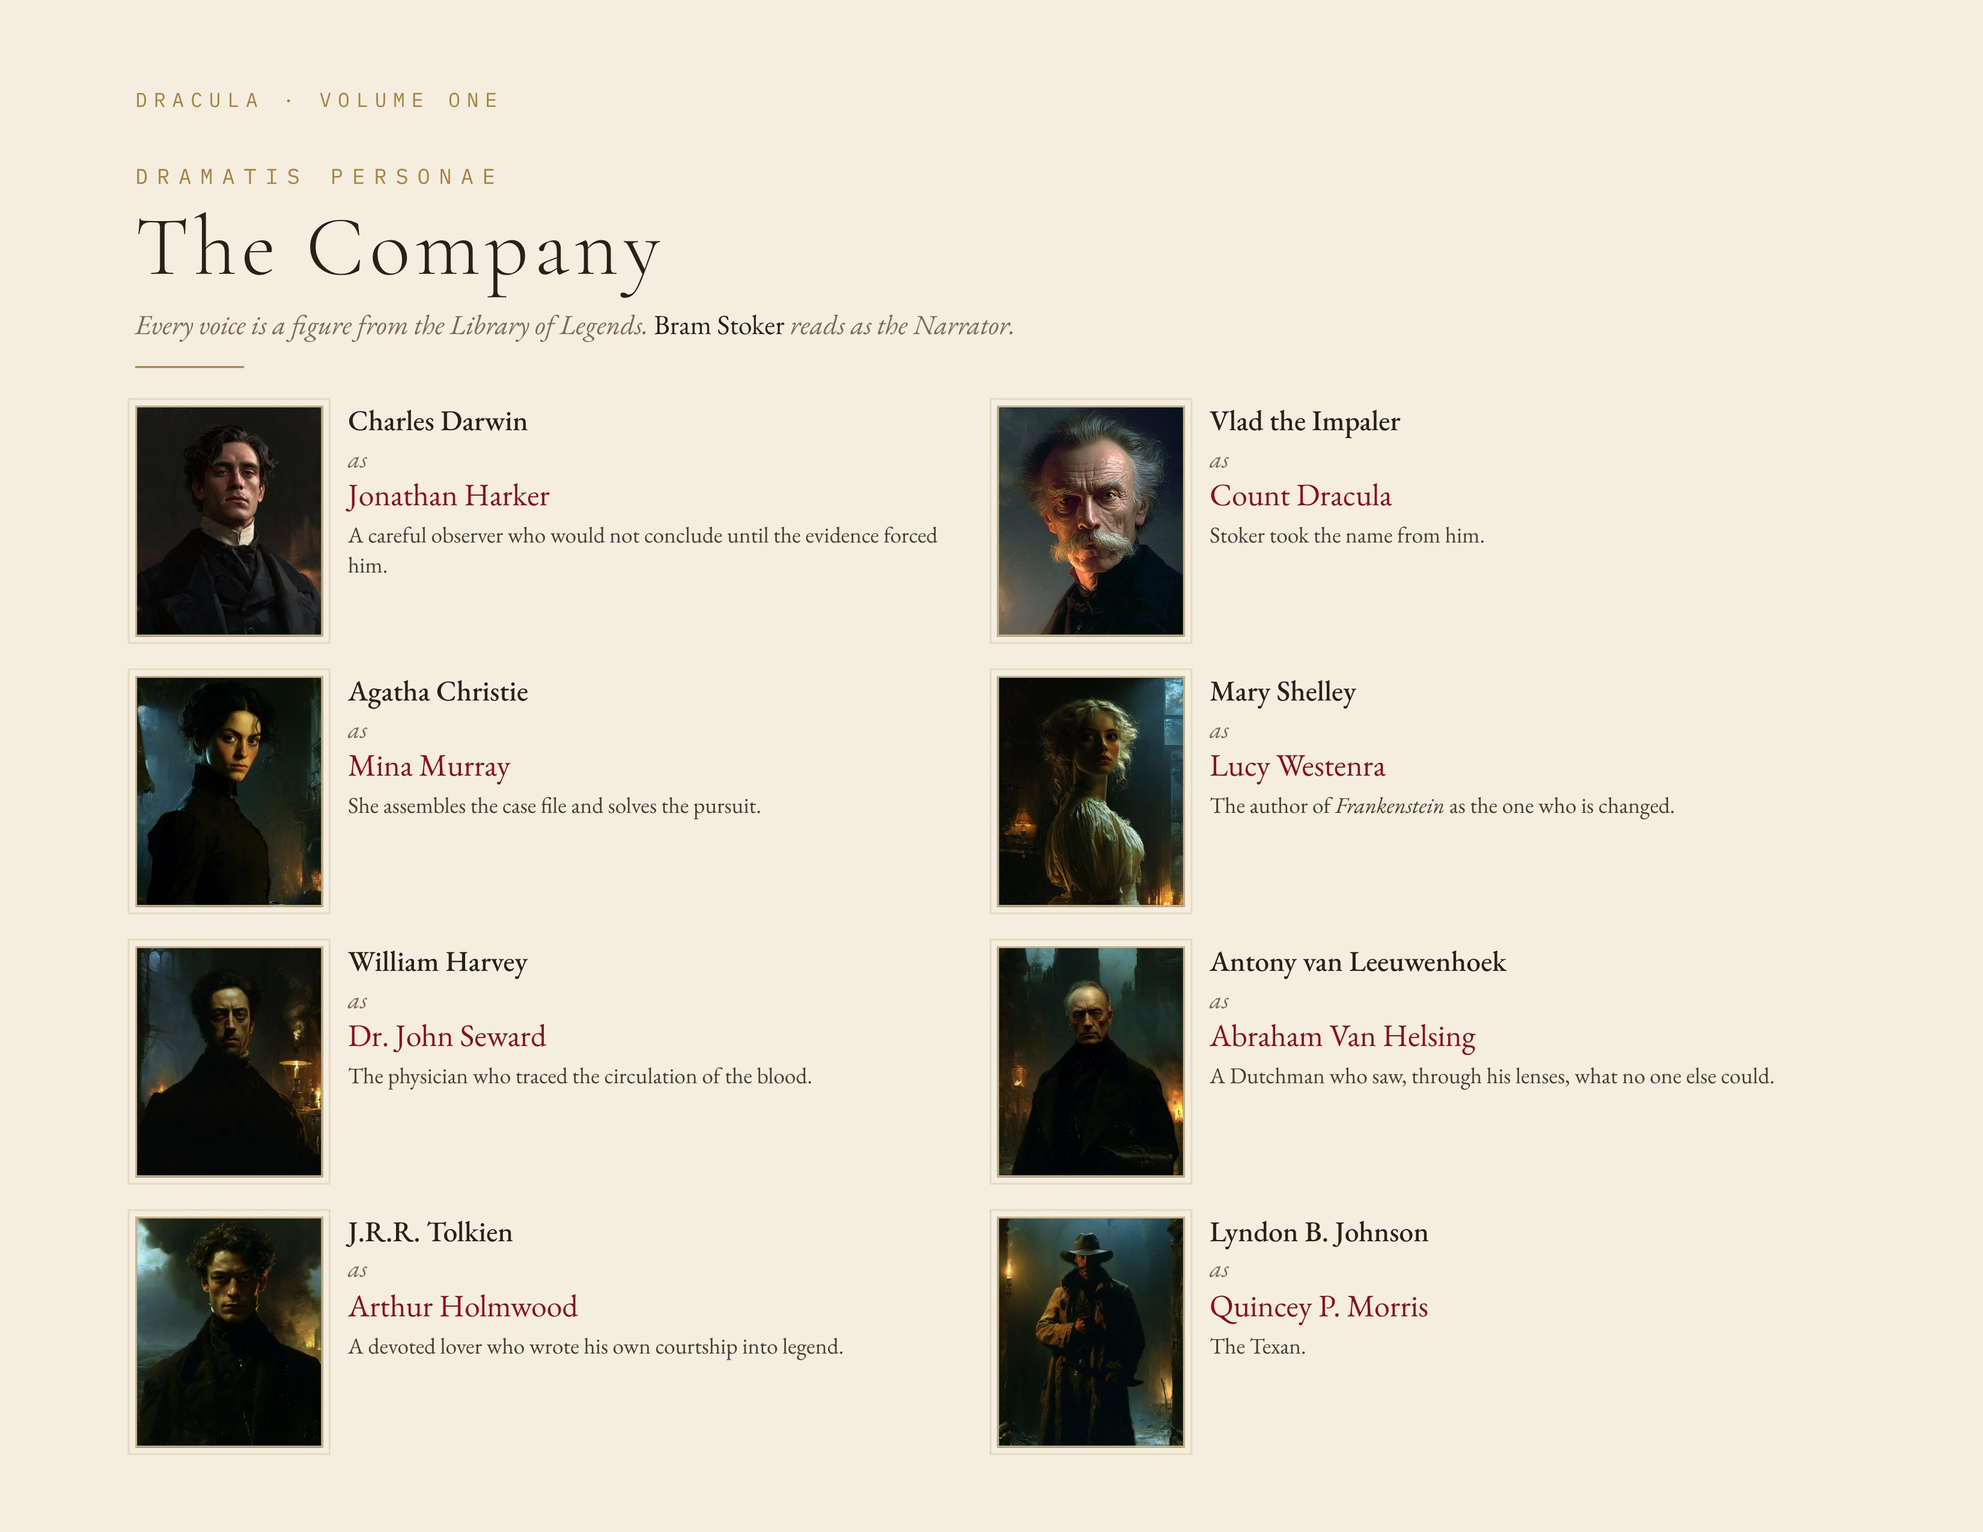
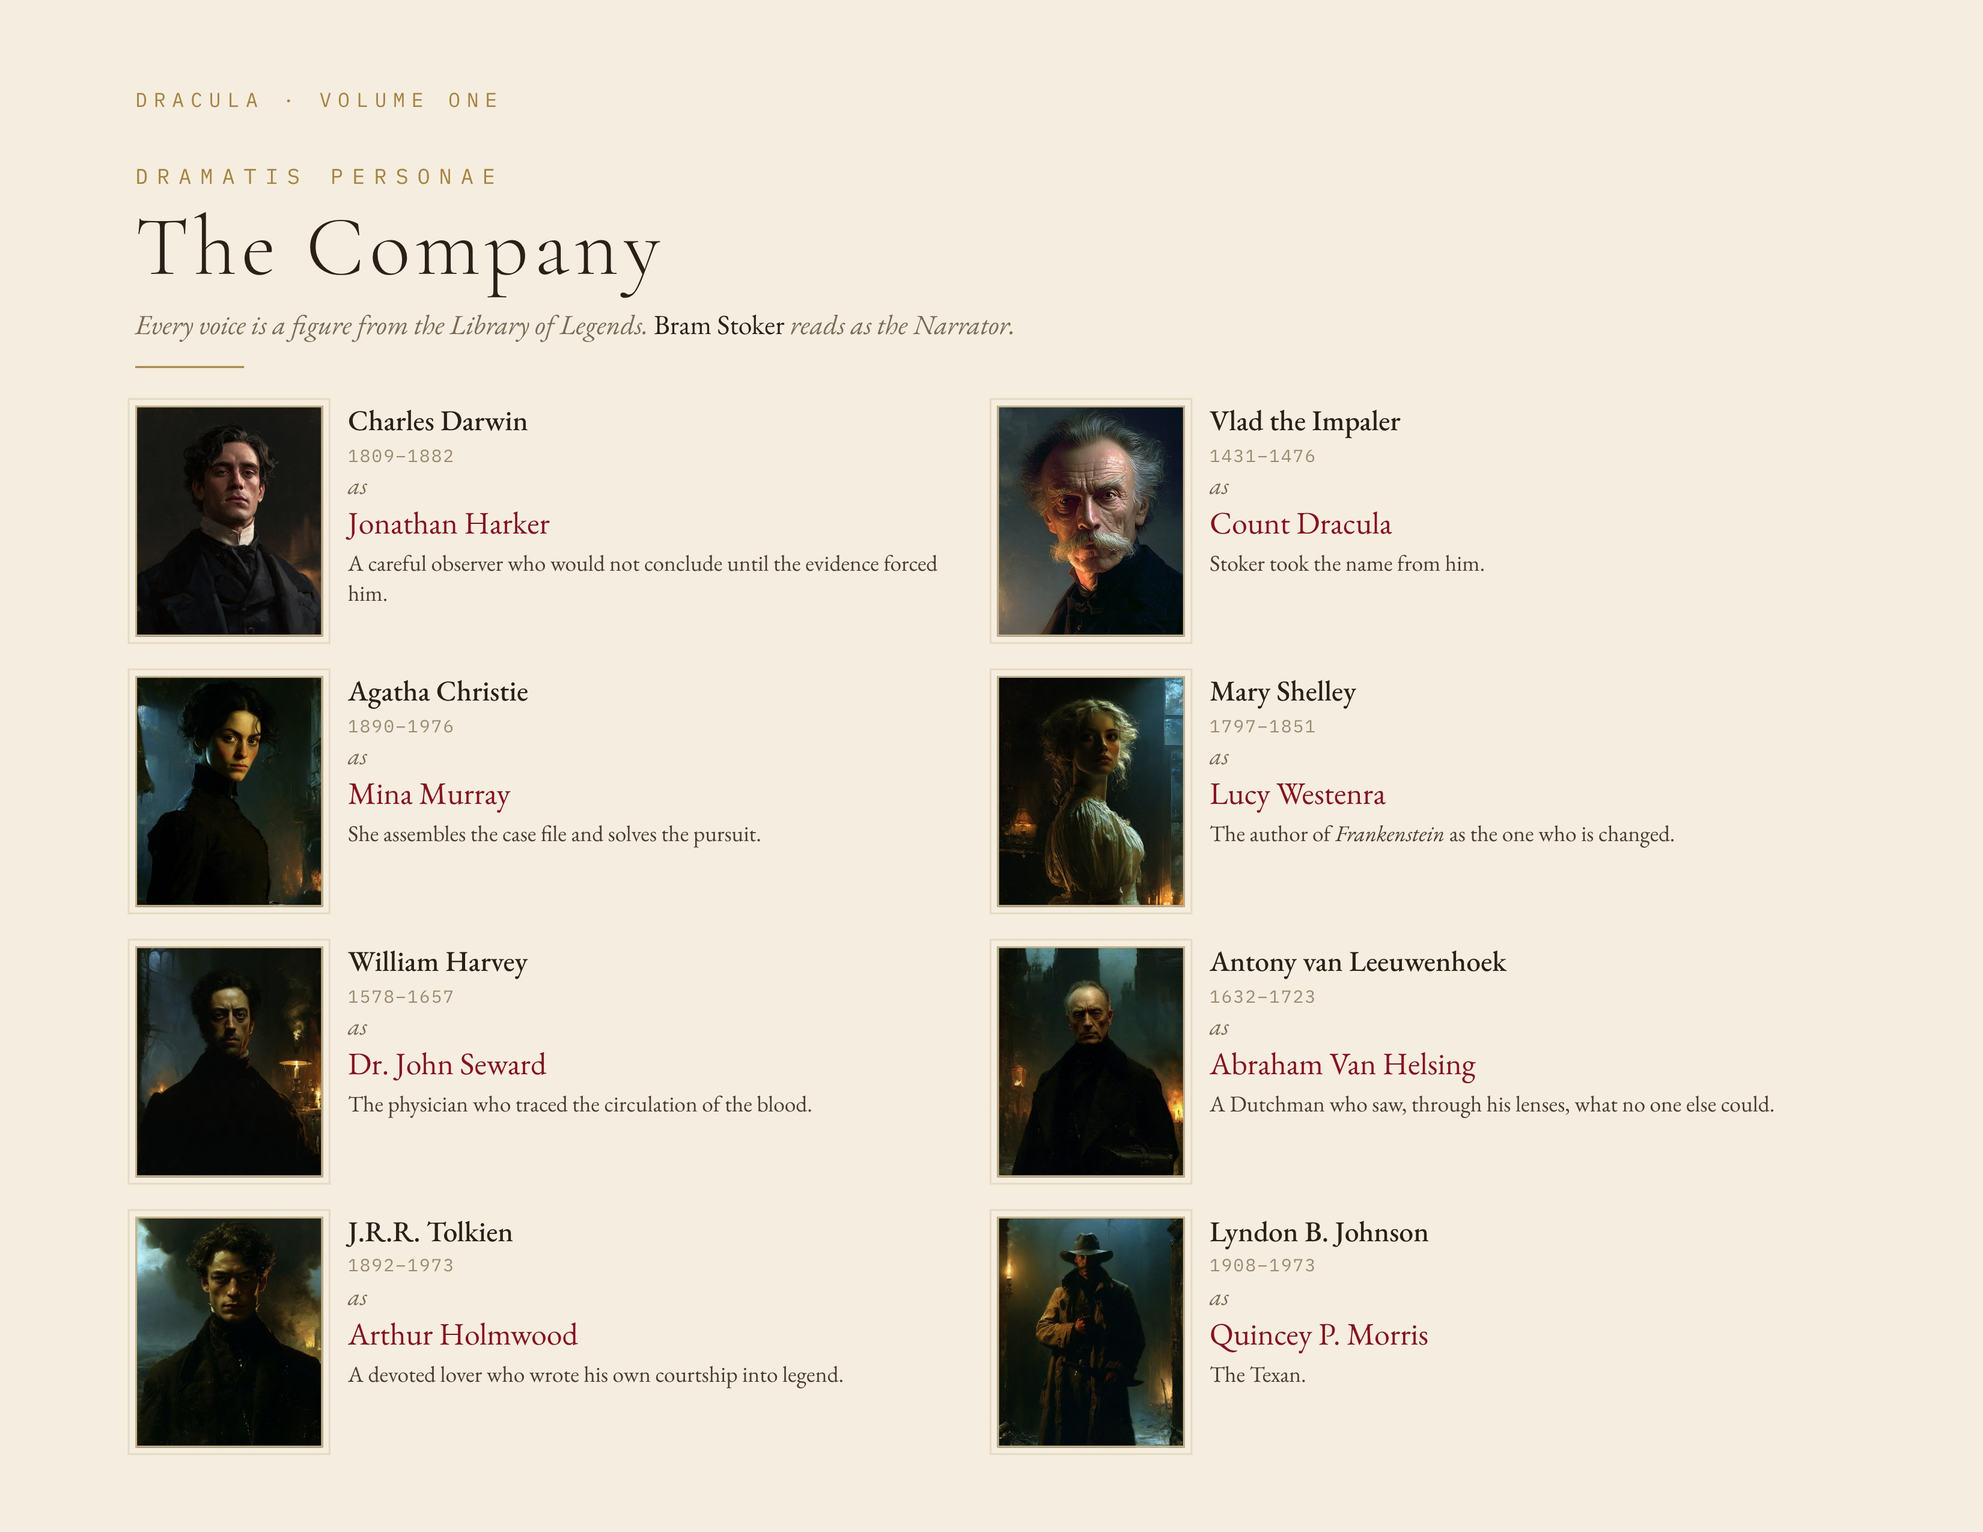
Volume One cast spread: life dates, Swales seated portrait, 'Also appearing', three women on one line; Company page matches
Claude-Session: https://claude.ai/code/session_013VwDP7mPLrP4eYudhxc4u4

diff --git a/dracula/books/volume-1/print/cast.html b/dracula/books/volume-1/print/cast.html
@@ -46,14 +46,15 @@ html,body{margin:0;background:#555}
 .co{position:absolute;display:grid;gap:.2in .26in;grid-template-rows:repeat(4,1.3in);top:2.25in}
 .c{display:flex;gap:.14in;align-items:flex-start}
 .ph{flex:none;width:1.04in;height:1.28in;background:#1c1a1a center/cover no-repeat;border:1px solid #c8b48a;box-shadow:0 0 0 3px var(--ivory),0 0 0 4px #c8b48a55}
-.nm{font:600 11.5pt/1.15 G}.as{font:italic 10pt G;color:#7a6a55;margin:.02in 0}.ro{font:12.5pt/1.15 G;color:var(--red)}
+.nm{font:600 11.5pt/1.15 G}.dt{font:7pt M;letter-spacing:.08em;color:#9a8a70;margin-top:.02in}
+.as{font:italic 10pt G;color:#7a6a55;margin:.02in 0}.ro{font:12.5pt/1.15 G;color:var(--red)}
 .wy{font:9pt/1.3 G;color:#4a3d30;margin-top:.05in}
 </style></head><body style="margin:0;background:#555"><div class="pg L"><div class="rh">Dracula · Volume One</div>
 <div style="position:absolute;left:.75in;right:.95in;top:.9in;text-align:left"><div class="k">Dramatis personae</div><div style="font:300 34pt/1.1 C;letter-spacing:.06em;margin:.06in 0">The Company</div>
 <div style="font:italic 11pt G;color:#7a6a55">Every voice is a figure from the Library of Legends. <span style="font-style:normal;color:var(--ink)">Bram Stoker</span> reads as the Narrator.</div><div class="rule" style="margin:.14in 0 0"></div></div>
-<div class="co" style="left:.75in;right:.95in;grid-template-columns:1fr 1fr"><div class="c"><div class="ph" style="background-image:url(file:///home/claude/ar/dracula/art/ref/bk3-jonathan.jpg);background-position:center 20%"></div><div><div class="nm">Charles Darwin</div><div class="as">as</div><div class="ro">Jonathan Harker</div><div class="wy">A careful observer who would not conclude until the evidence forced him.</div></div></div><div class="c"><div class="ph" style="background-image:url(file:///home/claude/ar/dracula/art/ref/bk1-count.jpg);background-position:center 30%"></div><div><div class="nm">Vlad the Impaler</div><div class="as">as</div><div class="ro">Count Dracula</div><div class="wy">Stoker took the name from him.</div></div></div><div class="c"><div class="ph" style="background-image:url(file:///home/claude/ar/dracula/art/ref/bk2-mina.jpg);background-position:center 25%"></div><div><div class="nm">Agatha Christie</div><div class="as">as</div><div class="ro">Mina Murray</div><div class="wy">She assembles the case file and solves the pursuit.</div></div></div><div class="c"><div class="ph" style="background-image:url(file:///home/claude/ar/dracula/art/ref/bk2-lucy.jpg);background-position:center 25%"></div><div><div class="nm">Mary Shelley</div><div class="as">as</div><div class="ro">Lucy Westenra</div><div class="wy">The author of <i>Frankenstein</i> as the one who is changed.</div></div></div><div class="c"><div class="ph" style="background-image:url(file:///home/claude/ar/dracula/art/ref/bk2-seward.jpg);background-position:center 30%"></div><div><div class="nm">William Harvey</div><div class="as">as</div><div class="ro">Dr. John Seward</div><div class="wy">The physician who traced the circulation of the blood.</div></div></div><div class="c"><div class="ph" style="background-image:url(file:///home/claude/ar/dracula/art/ref/bk2-van-helsing.jpg);background-position:center 30%"></div><div><div class="nm">Antony van Leeuwenhoek</div><div class="as">as</div><div class="ro">Abraham Van Helsing</div><div class="wy">A Dutchman who saw, through his lenses, what no one else could.</div></div></div><div class="c"><div class="ph" style="background-image:url(file:///home/claude/ar/dracula/art/ref/bk2-arthur.jpg);background-position:center 30%"></div><div><div class="nm">J.R.R. Tolkien</div><div class="as">as</div><div class="ro">Arthur Holmwood</div><div class="wy">A devoted lover who wrote his own courtship into legend.</div></div></div><div class="c"><div class="ph" style="background-image:url(file:///home/claude/ar/dracula/art/ref/bk2-quincey.jpg);background-position:center 30%"></div><div><div class="nm">Lyndon B. Johnson</div><div class="as">as</div><div class="ro">Quincey P. Morris</div><div class="wy">The Texan.</div></div></div></div>
-</div><div class="pg R"><div class="rh">The Company</div>
-<div class="co" style="left:.95in;right:.75in;grid-template-columns:1fr 1fr"><div class="c"><div class="ph" style="background-image:url(file:///home/claude/ar/dracula/art/ref/bk2-renfield.jpg);background-position:center 30%"></div><div><div class="nm">Jack the Ripper</div><div class="as">as</div><div class="ro">R. M. Renfield</div><div class="wy">Victorian London’s enigma — lucid one moment, raving for his Master the next.</div></div></div><div class="c"><div class="ph" style="background-image:url(file:///home/claude/ar/dracula/art/ch03-h1-2.jpg);background-position:78% center"></div><div><div class="nm">Empress Elisabeth · Elizabeth Báthory · Catherine de’ Medici</div><div class="as">as</div><div class="ro">The Three Women</div><div class="wy">The fair one, and the two dark sisters of the castle.</div></div></div><div class="c"><div class="ph" style="background-image:url(file:///home/claude/ar/dracula/art/ch01-inn-crucifix-3.jpg);background-position:18% center"></div><div><div class="nm">Hildegard of Bingen</div><div class="as">as</div><div class="ro">The Landlady at Bistritz · Sister Agatha</div><div class="wy">A devout voice; she presses her crucifix on Harker.</div></div></div><div class="c"><div class="ph" style="background-image:url(file:///home/claude/ar/dracula/art/ch07-log-lashed-0.jpg);background-position:68% center"></div><div><div class="nm">Vitus Bering</div><div class="as">as</div><div class="ro">The Captain of the Demeter</div><div class="wy">A captain who died with his stranded crew — duty to the last, as in the log.</div></div></div><div class="c"><div class="ph" style="background-image:url(file:///home/claude/ar/dracula/art/ch07-swales-b0.jpg);background-position:40% center"></div><div><div class="nm">James Cook</div><div class="as">as</div><div class="ro">Mr. Swales</div><div class="wy">He learned the sea at Whitby itself.</div></div></div><div class="c"><div class="ph" style="background-image:url(file:///home/claude/ar/dracula/art/ch07-f-crowds-0.jpg);background-position:center center"></div><div><div class="nm">Charles Dickens</div><div class="as">as</div><div class="ro">The Correspondent</div><div class="wy">He began as a newspaper reporter; the storm is a writer on the scene.</div></div></div></div>
+<div class="co" style="left:.75in;right:.95in;grid-template-columns:1fr 1fr"><div class="c"><div class="ph" style="background-image:url(file:///home/claude/ar/dracula/art/ref/bk3-jonathan.jpg);background-position:center 20%"></div><div><div class="nm">Charles Darwin</div><div class="dt">1809–1882</div><div class="as">as</div><div class="ro">Jonathan Harker</div><div class="wy">A careful observer who would not conclude until the evidence forced him.</div></div></div><div class="c"><div class="ph" style="background-image:url(file:///home/claude/ar/dracula/art/ref/bk1-count.jpg);background-position:center 30%"></div><div><div class="nm">Vlad the Impaler</div><div class="dt">1431–1476</div><div class="as">as</div><div class="ro">Count Dracula</div><div class="wy">Stoker took the name from him.</div></div></div><div class="c"><div class="ph" style="background-image:url(file:///home/claude/ar/dracula/art/ref/bk2-mina.jpg);background-position:center 25%"></div><div><div class="nm">Agatha Christie</div><div class="dt">1890–1976</div><div class="as">as</div><div class="ro">Mina Murray</div><div class="wy">She assembles the case file and solves the pursuit.</div></div></div><div class="c"><div class="ph" style="background-image:url(file:///home/claude/ar/dracula/art/ref/bk2-lucy.jpg);background-position:center 25%"></div><div><div class="nm">Mary Shelley</div><div class="dt">1797–1851</div><div class="as">as</div><div class="ro">Lucy Westenra</div><div class="wy">The author of <i>Frankenstein</i> as the one who is changed.</div></div></div><div class="c"><div class="ph" style="background-image:url(file:///home/claude/ar/dracula/art/ref/bk2-seward.jpg);background-position:center 30%"></div><div><div class="nm">William Harvey</div><div class="dt">1578–1657</div><div class="as">as</div><div class="ro">Dr. John Seward</div><div class="wy">The physician who traced the circulation of the blood.</div></div></div><div class="c"><div class="ph" style="background-image:url(file:///home/claude/ar/dracula/art/ref/bk2-van-helsing.jpg);background-position:center 30%"></div><div><div class="nm">Antony van Leeuwenhoek</div><div class="dt">1632–1723</div><div class="as">as</div><div class="ro">Abraham Van Helsing</div><div class="wy">A Dutchman who saw, through his lenses, what no one else could.</div></div></div><div class="c"><div class="ph" style="background-image:url(file:///home/claude/ar/dracula/art/ref/bk2-arthur.jpg);background-position:center 30%"></div><div><div class="nm">J.R.R. Tolkien</div><div class="dt">1892–1973</div><div class="as">as</div><div class="ro">Arthur Holmwood</div><div class="wy">A devoted lover who wrote his own courtship into legend.</div></div></div><div class="c"><div class="ph" style="background-image:url(file:///home/claude/ar/dracula/art/ref/bk2-quincey.jpg);background-position:center 30%"></div><div><div class="nm">Lyndon B. Johnson</div><div class="dt">1908–1973</div><div class="as">as</div><div class="ro">Quincey P. Morris</div><div class="wy">The Texan.</div></div></div></div>
+</div><div class="pg R"><div class="rh">The Company</div><div style="position:absolute;left:.95in;top:1.62in"><div class="k">Also appearing</div><div class="rule" style="margin:.14in 0 0"></div></div>
+<div class="co" style="left:.95in;right:.75in;grid-template-columns:1fr 1fr"><div class="c"><div class="ph" style="background-image:url(file:///home/claude/ar/dracula/art/ref/bk2-renfield.jpg);background-position:center 30%"></div><div><div class="nm">Jack the Ripper</div><div class="dt">active 1888</div><div class="as">as</div><div class="ro">R. M. Renfield</div><div class="wy">Victorian London’s enigma — lucid one moment, raving for his Master the next.</div></div></div><div class="c"><div class="ph" style="background-image:url(file:///home/claude/ar/dracula/art/ch03-h1-2.jpg);background-position:78% center"></div><div><div class="nm">Elisabeth of Austria · Báthory · de’ Medici</div><div class="dt">1837–1898 · 1560–1614 · 1519–1589</div><div class="as">as</div><div class="ro">The Three Women</div><div class="wy">The fair one, and the two dark sisters of the castle.</div></div></div><div class="c"><div class="ph" style="background-image:url(file:///home/claude/ar/dracula/art/ch01-inn-crucifix-3.jpg);background-position:18% center"></div><div><div class="nm">Hildegard of Bingen</div><div class="dt">1098–1179</div><div class="as">as</div><div class="ro">The Landlady at Bistritz · Sister Agatha</div><div class="wy">A devout voice; she presses her crucifix on Harker.</div></div></div><div class="c"><div class="ph" style="background-image:url(file:///home/claude/ar/dracula/art/ch07-log-lashed-0.jpg);background-position:68% center"></div><div><div class="nm">Vitus Bering</div><div class="dt">1681–1741</div><div class="as">as</div><div class="ro">The Captain of the Demeter</div><div class="wy">A captain who died with his stranded crew — duty to the last, as in the log.</div></div></div><div class="c"><div class="ph" style="background-image:url(file:///home/claude/ar/dracula/art/ch06-swales-a1.jpg);background-position:30% center"></div><div><div class="nm">James Cook</div><div class="dt">1728–1779</div><div class="as">as</div><div class="ro">Mr. Swales</div><div class="wy">He learned the sea at Whitby itself.</div></div></div><div class="c"><div class="ph" style="background-image:url(file:///home/claude/ar/dracula/art/ch07-f-crowds-0.jpg);background-position:center center"></div><div><div class="nm">Charles Dickens</div><div class="dt">1812–1870</div><div class="as">as</div><div class="ro">The Correspondent</div><div class="wy">He began as a newspaper reporter; the storm is a writer on the scene.</div></div></div></div>
 <div style="position:absolute;left:.95in;right:.75in;top:6.75in;height:1.3in;display:flex;align-items:center;gap:.28in;border-top:1px solid #d9ccb3;padding-top:.1in">
 <img src="company-qr.png" style="width:1.0in;height:1.0in"><div><div class="k">Ask Amenti</div><div style="font:300 24pt/1.15 C;letter-spacing:.04em;margin:.04in 0">Meet the company.</div><div style="font:italic 10pt/1.35 G;color:#7a6a55;max-width:4.6in">Scan to ask any of them — Darwin of his voyages, Vlad of the prince Stoker borrowed, Harvey of the blood. Answers are drawn from primary sources in the Library of Legends.</div></div></div>
 

diff --git a/dracula/company/index.html b/dracula/company/index.html
@@ -53,7 +53,7 @@ main{max-width:1100px;margin:0 auto;padding:12px 16px 40px;display:grid;grid-tem
 <div class="tx"><a class="nm" href="https://ianingram.github.io/Amenti.live/Page1.html?char=lyndon-b-johnson">Lyndon B. Johnson</a><div class="dt">President · 1908–1973</div>
 <div class="as">as</div><div class="ro">Quincey P. Morris</div><p>The Texan.</p><a class="go" href="https://ianingram.github.io/Amenti.live/Page1.html?char=lyndon-b-johnson">Open in the Library of Legends →</a></div></article>
 <article class="c"><div class="ph" style="background-image:url(https://ianingram.github.io/Amenti-Readings/dracula/art/ref/bk2-renfield.jpg);background-position:50% 30%"></div>
-<div class="tx"><a class="nm" href="https://ianingram.github.io/Amenti.live/Page1.html?char=jack-the-ripper">Jack the Ripper</a><div class="dt">Entity · 1888–1888</div>
+<div class="tx"><a class="nm" href="https://ianingram.github.io/Amenti.live/Page1.html?char=jack-the-ripper">Jack the Ripper</a><div class="dt">Entity · active 1888</div>
 <div class="as">as</div><div class="ro">R. M. Renfield</div><p>Victorian London’s enigma — lucid one moment, raving for his Master the next.</p><a class="go" href="https://ianingram.github.io/Amenti.live/Page1.html?char=jack-the-ripper">Open in the Library of Legends →</a></div></article>
 <article class="c"><div class="ph" style="background-image:url(https://ianingram.github.io/Amenti-Readings/dracula/art/ch03-h1-2.jpg);background-position:48% 30%;background-size:auto 240%"></div>
 <div class="tx"><a class="nm" href="https://ianingram.github.io/Amenti.live/Page1.html?char=empress-elisabeth-of-austria">Empress Elisabeth of Austria</a><div class="dt">Empress · 1837–1898</div>
@@ -70,7 +70,7 @@ main{max-width:1100px;margin:0 auto;padding:12px 16px 40px;display:grid;grid-tem
 <article class="c"><div class="ph" style="background-image:url(https://ianingram.github.io/Amenti-Readings/dracula/art/ch07-log-lashed-0.jpg);background-position:70% 40%"></div>
 <div class="tx"><a class="nm" href="https://ianingram.github.io/Amenti.live/Page1.html?char=vitus-bering">Vitus Bering</a><div class="dt">Explorer · 1681–1741</div>
 <div class="as">as</div><div class="ro">The Captain of the Demeter</div><p>A captain who died with his stranded crew — duty to the last, as in the log.</p><a class="go" href="https://ianingram.github.io/Amenti.live/Page1.html?char=vitus-bering">Open in the Library of Legends →</a></div></article>
-<article class="c"><div class="ph" style="background-image:url(https://ianingram.github.io/Amenti-Readings/dracula/art/ch06-swales-a0.jpg);background-position:30% 50%"></div>
+<article class="c"><div class="ph" style="background-image:url(https://ianingram.github.io/Amenti-Readings/dracula/art/ch06-swales-a1.jpg);background-position:30% 50%"></div>
 <div class="tx"><a class="nm" href="https://ianingram.github.io/Amenti.live/Page1.html?char=james-cook">James Cook</a><div class="dt">Explorer · 1728–1779</div>
 <div class="as">as</div><div class="ro">Mr. Swales</div><p>He learned the sea at Whitby itself.</p><a class="go" href="https://ianingram.github.io/Amenti.live/Page1.html?char=james-cook">Open in the Library of Legends →</a></div></article>
 <article class="c"><div class="ph" style="background-image:url(https://ianingram.github.io/Amenti-Readings/dracula/art/ch07-f-crowds-0.jpg);background-position:50% 50%"></div>
